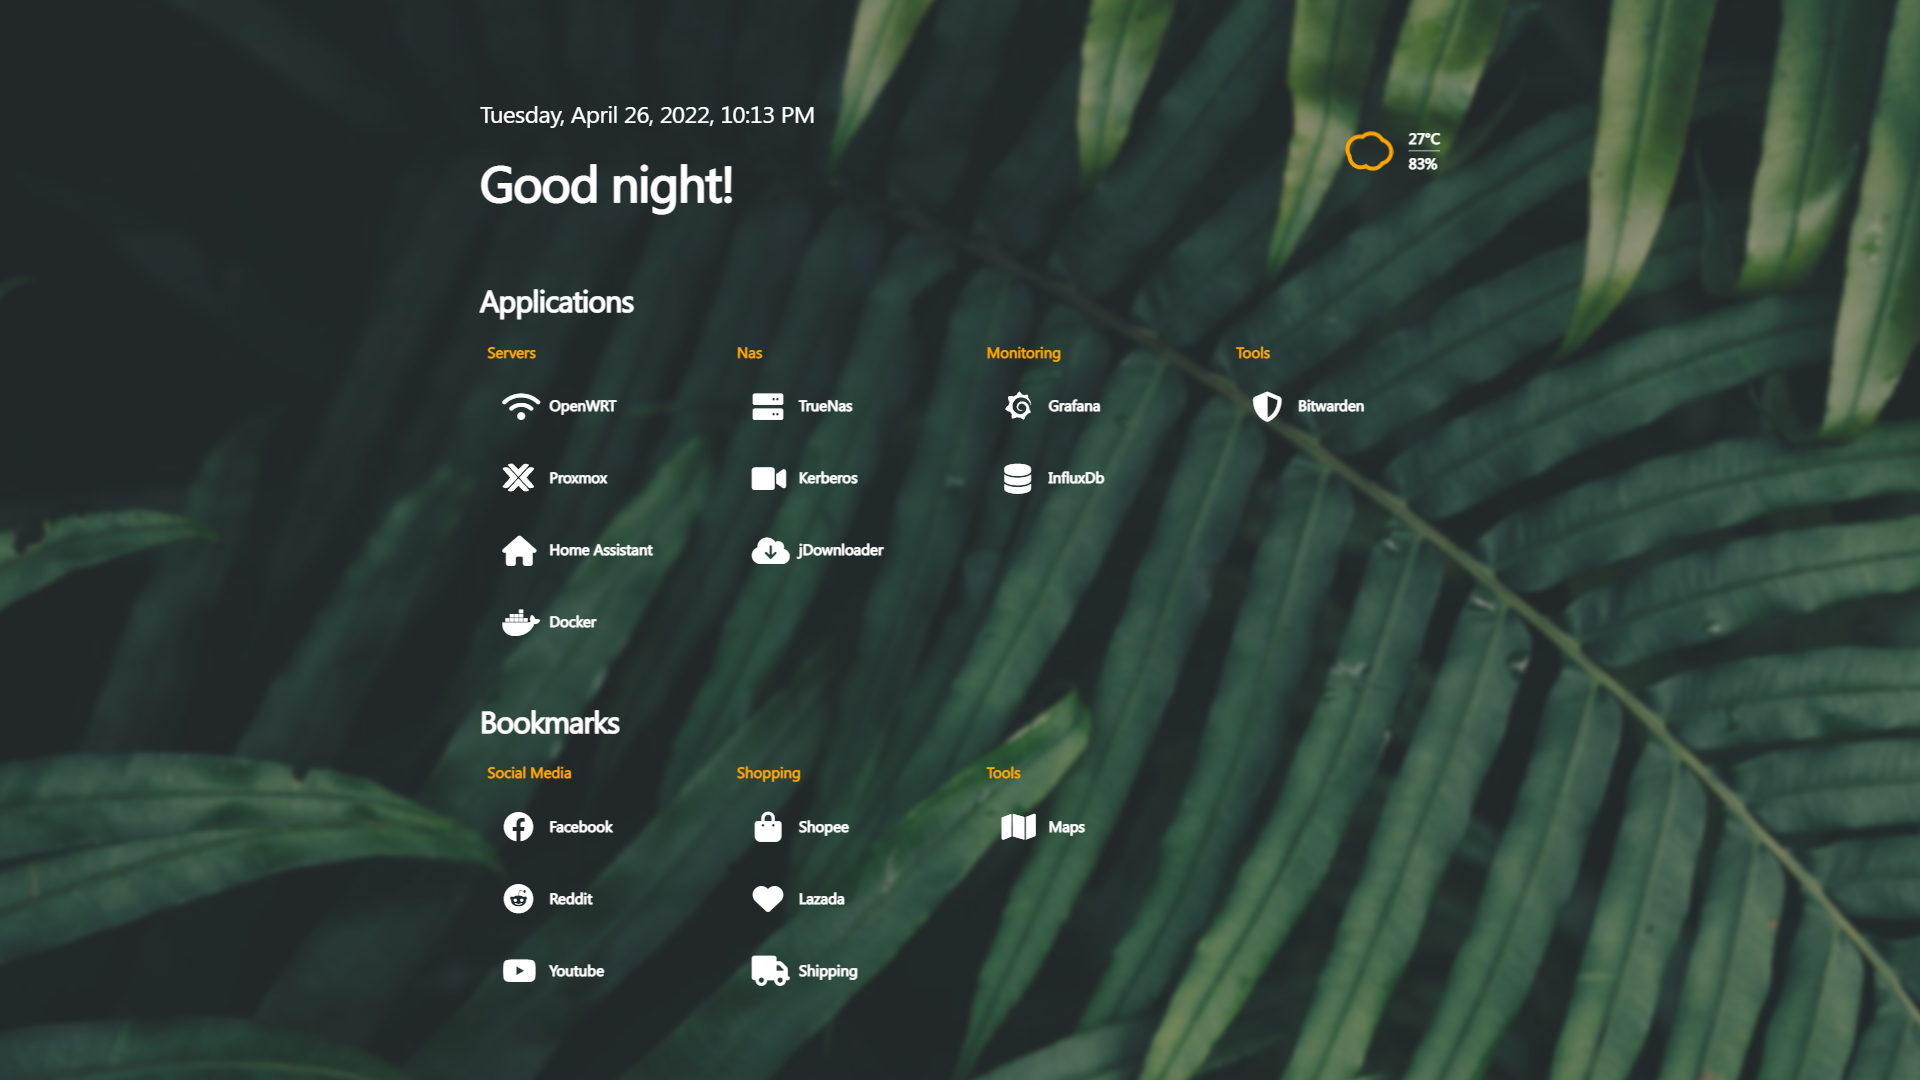
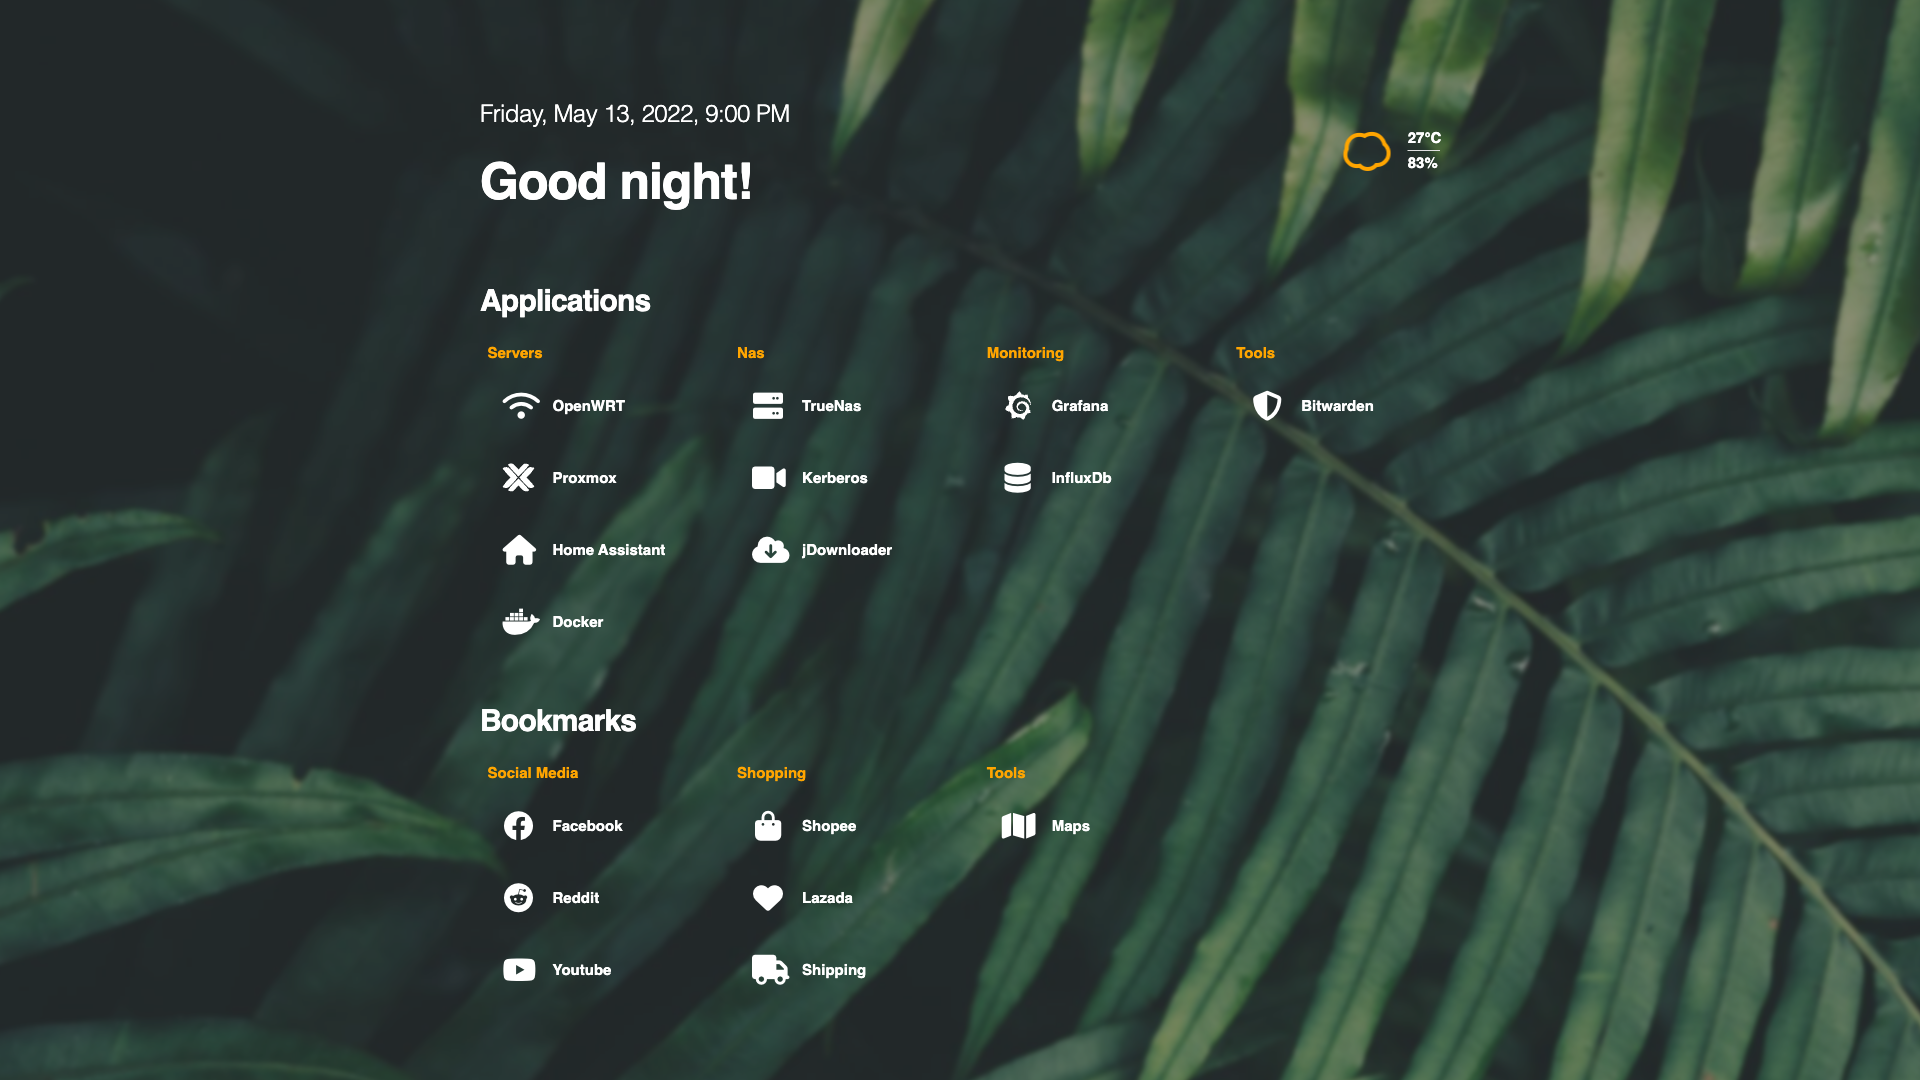
fix screenshot script

diff --git a/tools/screenshot/app.js b/tools/screenshot/app.js
@@ -1,5 +1,5 @@
 const puppeteer = require('puppeteer');
-const { readdirSync, copyFileSync } = require('fs');
+const { readdirSync, copyFileSync, mkdirSync, existsSync } = require('fs');
 const { exec } = require('child_process');
 
 const getDirectories = source =>
@@ -9,12 +9,22 @@ const getDirectories = source =>
 
 const replaceFiles = (source, destination) =>
     readdirSync(source, { withFileTypes: true })
-        .filter(dirent => !dirent.isDirectory())
-        .forEach(file => copyFileSync(`${source}/${file.name}`, `${destination}/${file.name}`));
+        .forEach(path => {
+            const srcPath = `${source}/${path.name}`
+            const desPath = `${destination}/${path.name}`
+            if (path.isDirectory()) {
+                if (!existsSync(desPath)) mkdirSync(desPath, { recursive: true });
+                replaceFiles(srcPath, desPath);
+            }
+            else
+                copyFileSync(srcPath, desPath)
+        });
 
 const sleep = ms => new Promise(r => setTimeout(r, ms));
 
 (async () => {
+    exec('cd ../../src/ && go run main.go');
+
     const browser = await puppeteer.launch({
         headless: false,
         defaultViewport: {
@@ -23,22 +33,19 @@ const sleep = ms => new Promise(r => setTimeout(r, ms));
         }
     });
 
-    const themes = ["simplefox"]//getDirectories("./config");
+    const themes = getDirectories("../../sample");
     for (const theme of themes) {
         replaceFiles(`../../sample/${theme}`, '../../src/data');
-        exec('cd ../../src/ && go run main.go');
         await sleep(500);
 
         const page = await browser.newPage();
         await page.goto('http://localhost:7001');
         await page.waitForNetworkIdle();
-        await sleep(1000);
+        await sleep(500);
         await page.screenshot({ path: `../../docs/screenshots/${theme}.png` });
         await page.close();
 
-        exec('pkill -f go');
-        exec('pkill -f main');
-        await sleep(500);
+        await sleep(1000);
     }
 
     browser.close();

diff --git a/src/themes/simplefox/index.html b/src/themes/simplefox/index.html
@@ -64,17 +64,17 @@
                     <div class="grid gap-4 grid-cols-2">
                         {{range (index .Contents 1).Columns}}
                         <div class="box rounded-lg drop-shadow-xl gap-2 p-5 grid grid-flow-row auto-rows-max justify-center">
-                            <div class="icon-container-small mb-4">
-                                <center>
-                                    {{if .IsImage}}
-                                    <img src="{{.Icon}}" class="icon">
-                                    {{else if .IsSVG}}
-                                    <svg-file src="{{.Icon}}" class="svg-icon"></svg-file>
-                                    {{else}}
-                                    <i class="{{.Icon}} fa-xl icon"></i>
-                                    {{end}}
-                                </center>
-                            </div>
+                            <center>
+                                <div class="icon-container-small mb-4 w-100">
+                                        {{if .IsImage}}
+                                        <img src="{{.Icon}}" class="icon">
+                                        {{else if .IsSVG}}
+                                        <svg-file src="{{.Icon}}" class="svg-icon"></svg-file>
+                                        {{else}}
+                                        <i class="{{.Icon}} fa-xl icon"></i>
+                                        {{end}}
+                                </div>
+                            </center>
                             {{range .Bookmarks}}
                             <a href="{{.Url}}" class="text-center">{{.Name}}</a>
                             {{end}}

diff --git a/sample/flame/css/core.css b/sample/flame/css/core.css
@@ -1,0 +1,6 @@
+:root {
+  --bgColor: #2d3436;
+  --bgImage: url("https://images.wallpaperscraft.com/image/single/leaf_plant_green_136967_2560x1440.jpg");
+  --accentColor: #FFA500;
+  --foreground: #ffffff;
+}

diff --git a/sample/leaf/css/core.css b/sample/leaf/css/core.css
@@ -1,0 +1,6 @@
+:root {
+  --bgColor: #2d3436;
+  --bgImage: url("https://images.wallpaperscraft.com/image/single/leaf_plant_green_136967_2560x1440.jpg");
+  --accentColor: #FFA500;
+  --foreground: #ffffff;
+}
